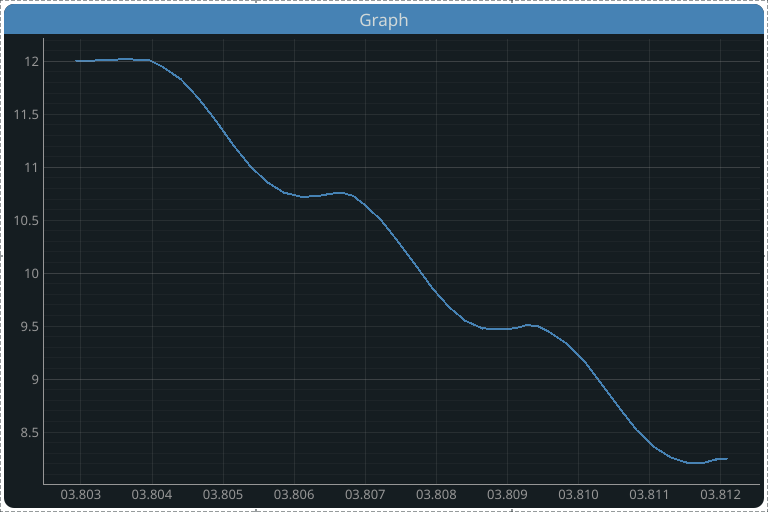
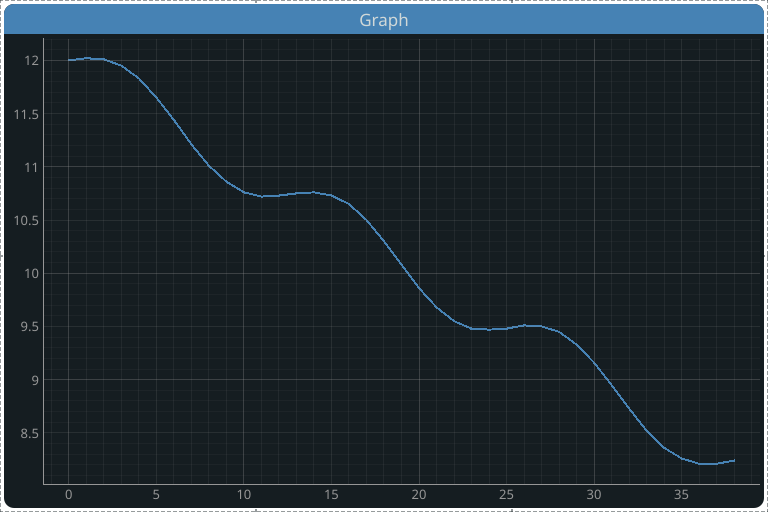
docs: add slider widget to dashboard

diff --git a/scripts/dashboard_cards/screenshot.py b/scripts/dashboard_cards/screenshot.py
@@ -36,8 +36,13 @@ CONFIG: typing.Final = {
             "title": "Battery Level",
             "span": [1, 1],
             "data": [
-                {"value": x, "struct": {"dashboard": [{"element": "value", "format": "raw"}]}}
-                for x in [round(12 + (math.sin(x / 2) / 4) - x / 10, 2) for x in range(40)]
+                {
+                    "value": x,
+                    "struct": {"dashboard": [{"element": "value", "format": "raw"}]},
+                }
+                for x in [
+                    round(12 + (math.sin(x / 2) / 4) - x / 10, 2) for x in range(40)
+                ]
             ],
         },
         {
@@ -47,9 +52,15 @@ CONFIG: typing.Final = {
             "title": "Graph",
             "span": [3, 2],
             "data": [
-                {"value": x, "struct": {"dashboard": [{"element": "value", "format": "raw"}]}}
-                for x in [round(12 + (math.sin(x / 2) / 4) - x / 10, 2) for x in range(40)]
+                {
+                    "value": x,
+                    "struct": {"dashboard": [{"element": "value", "format": "raw"}]},
+                }
+                for x in [
+                    round(12 + (math.sin(x / 2) / 4) - x / 10, 2) for x in range(40)
+                ]
             ],
+            "perdata_wait": 0.05,
         },
         {
             "out": "docs/media/dashboard/textedit-{0}.png",
@@ -64,7 +75,12 @@ CONFIG: typing.Final = {
             "class": "LabelWidgetItem",
             "title": "Text",
             "span": [1, 1],
-            "data": [{"value": "Demo", "struct": {"dashboard": [{"element": "value", "format": "raw"}]}}],
+            "data": [
+                {
+                    "value": "Demo",
+                    "struct": {"dashboard": [{"element": "value", "format": "raw"}]},
+                }
+            ],
         },
         {
             "out": "docs/media/dashboard/bigtext-{0}.png",
@@ -72,7 +88,12 @@ CONFIG: typing.Final = {
             "class": "BigLabelWidgetItem",
             "title": "Big Text",
             "span": [1, 1],
-            "data": [{"value": "Demo", "struct": {"dashboard": [{"element": "value", "format": "raw"}]}}],
+            "data": [
+                {
+                    "value": "Demo",
+                    "struct": {"dashboard": [{"element": "value", "format": "raw"}]},
+                }
+            ],
         },
         {
             "out": "docs/media/dashboard/boolean-off-{0}.png",
@@ -80,7 +101,12 @@ CONFIG: typing.Final = {
             "class": "BooleanWidgetItem",
             "title": "Boolean Off",
             "span": [1, 1],
-            "data": [{"value": False, "struct": {"dashboard": [{"element": "value", "format": "raw"}]}}],
+            "data": [
+                {
+                    "value": False,
+                    "struct": {"dashboard": [{"element": "value", "format": "raw"}]},
+                }
+            ],
         },
         {
             "out": "docs/media/dashboard/boolean-on-{0}.png",
@@ -88,7 +114,12 @@ CONFIG: typing.Final = {
             "class": "BooleanWidgetItem",
             "title": "Boolean on",
             "span": [1, 1],
-            "data": [{"value": True, "struct": {"dashboard": [{"element": "value", "format": "raw"}]}}],
+            "data": [
+                {
+                    "value": True,
+                    "struct": {"dashboard": [{"element": "value", "format": "raw"}]},
+                }
+            ],
         },
         {
             "out": "docs/media/dashboard/color-{0}.png",
@@ -96,7 +127,12 @@ CONFIG: typing.Final = {
             "class": "ColorWidgetItem",
             "title": "Color",
             "span": [1, 1],
-            "data": [{"value": "#0000ff", "struct": {"dashboard": [{"element": "value", "format": "raw"}]}}],
+            "data": [
+                {
+                    "value": "#0000ff",
+                    "struct": {"dashboard": [{"element": "value", "format": "raw"}]},
+                }
+            ],
         },
         {
             "out": "docs/media/dashboard/speedometer-{0}.png",
@@ -104,7 +140,12 @@ CONFIG: typing.Final = {
             "class": "SpeedometerWidgetItem",
             "title": "Speedometer",
             "span": [2, 2],
-            "data": [{"value": 10, "struct": {"dashboard": [{"element": "value", "format": "raw"}]}}],
+            "data": [
+                {
+                    "value": 10,
+                    "struct": {"dashboard": [{"element": "value", "format": "raw"}]},
+                }
+            ],
         },
         {
             "out": "docs/media/dashboard/mjpeg-{0}.png",
@@ -116,7 +157,10 @@ CONFIG: typing.Final = {
                 {
                     "value": base64.b64encode(
                         open(  # noqa: SIM115
-                            os.path.join(os.path.dirname(os.path.realpath(__file__)), "dashboard.jpg"),
+                            os.path.join(
+                                os.path.dirname(os.path.realpath(__file__)),
+                                "dashboard.jpg",
+                            ),
                             "rb",
                             closefd=True,
                         ).read()
@@ -125,6 +169,19 @@ CONFIG: typing.Final = {
                 }
             ],
             "wait": 2,
+        },
+        {
+            "out": "docs/media/dashboard/slider-{0}.png",
+            "mod": "kevinbotlib.apps.dashboard.widgets.slider",
+            "class": "SliderWidgetItem",
+            "title": "Slider",
+            "span": [2, 1],
+            "data": [
+                {
+                    "value": 40,
+                    "struct": {"dashboard": [{"element": "value", "format": "raw"}]},
+                }
+            ],
         },
     ],
 }
@@ -180,6 +237,14 @@ def main():
             start = time.time()
             while time.time() - item["wait"] < start:
                 app.processEvents()
+        if "perdata_wait" in item:
+            for data in item["data"]:
+                start = time.time()
+                while time.time() - start < item["perdata_wait"]:
+                    app.processEvents()
+                    witem.update_data(data)
+                    witem.update()
+                    time.sleep(item["perdata_wait"])
         scene.set_theme(Themes.Dark)
         capture_scene_to_image(
             scene,
@@ -201,6 +266,14 @@ def main():
             start = time.time()
             while time.time() - item["wait"] < start:
                 app.processEvents()
+        if "perdata_wait" in item:
+            for data in item["data"]:
+                start = time.time()
+                while time.time() - start < item["perdata_wait"]:
+                    app.processEvents()
+                    witem.update_data(data)
+                    witem.update()
+                    time.sleep(item["perdata_wait"])
         capture_scene_to_image(
             scene,
             width=item["span"][0] * CONFIG["grid_size"],

diff --git a/docs/apps/dashboard/widgets.md b/docs/apps/dashboard/widgets.md
@@ -215,3 +215,60 @@ The graph widget can graph data with customizable properties.
 * Line Width
   
     This option sets the width of the plot.
+
+### Compatible Data Types
+
+* `IntegerSendable`
+* `FloatSendable`
+
+## Slider Widget
+
+![slider-dark.png](../../media/dashboard/slider-dark.png#only-dark){width=384px}
+![slider-light.png](../../media/dashboard/slider-light.png#only-light){width=384px}
+
+The slider widget can display numeric values on a configurable slider.
+
+### Configuration Options
+
+![slider-config.png](../../media/dashboard/slider-config.png){width=360px}
+
+* Min Value
+
+    Lowset value on the slider
+
+* Max Value
+  
+    Highest number on the slider
+
+* Step Size
+
+    Size of each step on the slider
+
+* Vertical Orientation
+
+    Use a vertical slider instead of a horizontal one.
+
+* Show Value Label
+  
+    Display the current value under the slider
+
+* Show Tick Marks
+
+    Display slider tick marks
+
+* Tick Interval
+
+    Interval of ticks
+
+* Send Delay
+
+    Delay to prevent spamming of the network while mouse is down on the slider
+
+* Read-Only
+
+    Prevent writing to the network
+
+### Compatible Data Types
+
+* `IntegerSendable`
+* `FloatSendable`
